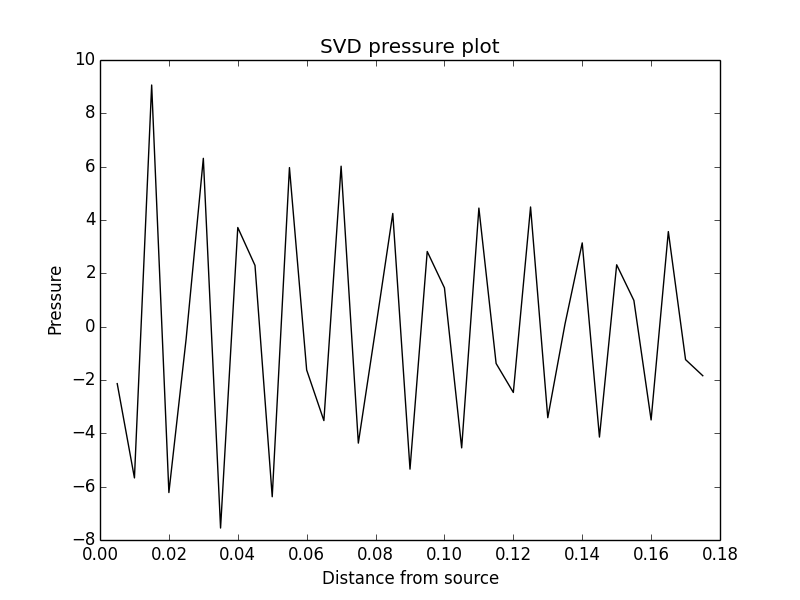
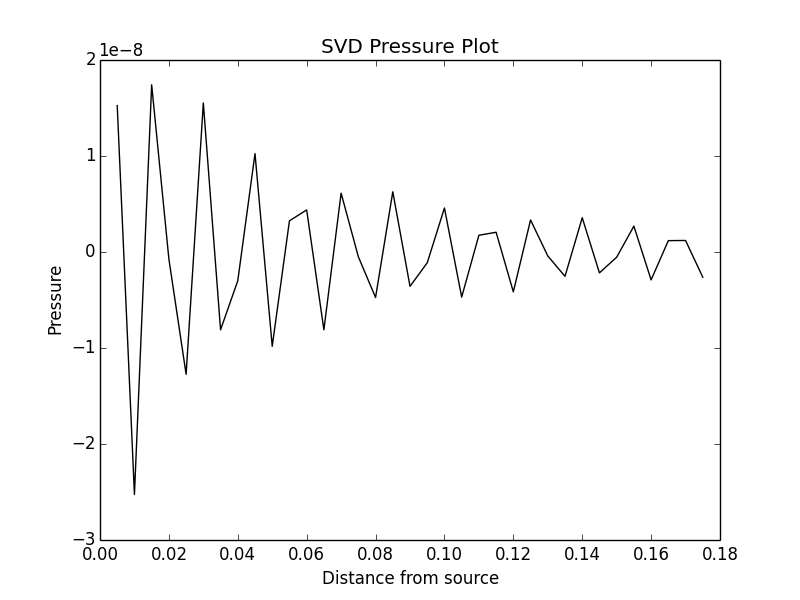
Need to check plane wave results

diff --git a/Simulations/Plane Wave Confirmation/reduced Plane Wave solve.py b/Simulations/Plane Wave Confirmation/reduced Plane Wave solve.py
@@ -6,13 +6,13 @@ leastSqPlane = __import__("Plane Wave Least Squares")
 
 #define constants
 NUM_PORTS = 11
-NUM_DETECTORS = 35
+NUM_DETECTORS = 20
 DETECTOR_MID = NUM_DETECTORS/2
-NUM_ROWS = 35
+NUM_ROWS = 100
 
 PORT_SPACING = 0.0011375
 DETECTOR_SPACING = 0.0005
-ROW_SPACING = 0.005
+ROW_SPACING = 0.0005
 DETECTOR_OFFSET = 0.1
 
 MIDPOINT = (NUM_PORTS-1)/2.0 * PORT_SPACING
@@ -36,14 +36,16 @@ class reducedLeastSquaresWave(leastSqPlane.leastSquaresWave):
 		self.getSVD(freq)
 		# print self.diffMatrix
 		print "result is: \n", self.leastSqResu
-		print "SVD result is [0]: \n", self.resultSVDResu[0]
+		# print "SVD result is [0]: \n", self.resultSVDResu[0]
+		# print "SVD is: ", self.SVD
 		# print "SVD result is [1]: \n", self.resultSVDResu[1]
 
-		tempDetector = self.fullConstDict[0].keys()[0]
+		# tempDetector = self.fullConstDict[0].keys()[0]
 		# print "detector vals are: ", self.fullConstDict[0][tempDetector]
 
-		# self.getfullConstDict(freq)
 		self.normalizeVals()
+		# self.getfullConstDict(freq)
+
 		self.calcPressure()
 
 		# print np.dot(self.diffMatrix,self.leastSqResu)
@@ -52,8 +54,16 @@ class reducedLeastSquaresWave(leastSqPlane.leastSquaresWave):
 		# print "storage array is: ", self.storArr
 		# print self.nullPressure[0]
 		# print self.svdPressure[0]
-		self.graphDecay(self.nullPressure, "Least Squares Pressure Plot")
-		self.graphDecay(self.svdPressure, "SVD Reduced Pressure Plot")
+
+		self.plotEverything()
+
+
+	def plotEverything(self):
+		# self.graphDecay(self.nullPressure, "Least Squares Pressure Plot")
+		# self.graphDecay(self.svdPressure, "SVD Pressure Plot")
+
+		# self.graphXDecay(self.svdPressure, "SVD Pressure")
+		self.graphXDecay(self.nullPressure, "Least Squares Pressures")
 
 	# def checkSolution(self):
 
@@ -87,22 +97,27 @@ class reducedLeastSquaresWave(leastSqPlane.leastSquaresWave):
 	def nullSpace(self, eps = 1.5e-10):
 		u, s, vh = np.linalg.svd(self.reducedMatrix)
 		self.null_space = np.compress(s <=eps, vh, axis = 0)
-		return self.null_space.T
+		# print "SVD is: ", s
+		# print "unitary matrix is: ", vh
+		return self.null_space.T, s
 
 	def getSVD(self, freq):
-		eps = 1.5e-15
-		while True:
-			self.resultSVDResu = self.nullSpace(eps).T
+		eps = 1.5e-9
+		counter = 0
+		while True: #counter != 1
+			self.resultSVDResu, self.SVD = self.nullSpace(eps)
+			self.resultSVDResu = self.resultSVDResu.T
 			if self.validateResu(freq):
 				break
 			eps *= 2 if self.resultSVDResu.shape[0] <= 1 else 1/1.5
 			print "epsilon is: ", eps
+			# counter += 1
 		print self.resultSVDResu.shape
 
 	def validateResu(self, freq):
-		if self.resultSVDResu.shape[0] != 2:
-			print self.resultSVDResu.shape[0]
-			return False
+		# if self.resultSVDResu.shape[0] != 2:
+			# print self.resultSVDResu.shape[0]
+			# return False
 		self.getfullConstDict(freq)
 		return True
 
@@ -124,6 +139,14 @@ class reducedLeastSquaresWave(leastSqPlane.leastSquaresWave):
 		plt.title(title)
 		plt.show()
 
+	def graphXDecay(self, pressureDict, title):
+		x = [(i+1) * DETECTOR_SPACING for i in range(NUM_DETECTORS)]
+		y = [pressureDict[99][detector][0].real for detector in pressureDict[99]]
+
+		print y
+		plt.plot(x, y, "k")
+		plt.title(title)
+		plt.show()
 
 
 if __name__ == "__main__":

diff --git a/Simulations/Plane Wave Confirmation/Plane Wave Least Squares.py b/Simulations/Plane Wave Confirmation/Plane Wave Least Squares.py
@@ -1,16 +1,17 @@
 import numpy as np
 import plotImShow as plot
+import matplotlib.pyplot as plt
 waveCalculation = __import__("Plane Wave LinAlg")
 
 
 #define constants
 NUM_PORTS = 11
-NUM_DETECTORS = 50
+NUM_DETECTORS = 100
 DETECTOR_MID = NUM_DETECTORS/2
 NUM_ROWS = 50
 
 PORT_SPACING = 0.0011375
-DETECTOR_SPACING = 0.0005
+DETECTOR_SPACING = 0.00005
 ROW_SPACING = 0.0005
 DETECTOR_OFFSET = 0.1
 
@@ -35,6 +36,7 @@ class leastSquaresWave(waveCalculation.runCalculation):
 		# print self.differences.keys()
 		# key = self.differences[0].keys()[0]
 		self.getMaxDiff()
+		self.graphXDecay()
 
 	def getMaxDiff(self):
 		self.maxDiff = complex(0,0)
@@ -49,7 +51,22 @@ class leastSquaresWave(waveCalculation.runCalculation):
 		print "midpoint is: ", self.result[(NUM_PORTS)/2]
 
 	def constructRHS(self):
-		self.rhs = [-self.diffMatrix[i][(NUM_PORTS)/2] for i in range(len(self.diffMatrix))]
+		self.rhs = [self.diffMatrix[i][(NUM_PORTS)/2] for i in range(len(self.diffMatrix))]
+
+# def calculatePressure(self):
+# 		self.pressureDict = {}
+# 		for key in self.fullConstDict:
+# 			self.pressureDict[key] = {detector: (np.dot(self.fullConstDict[key][detector], self.result.T), detector.returnLoc()) for detector in self.fullConstDict[key]}
+
+
+	def graphXDecay(self):
+		x = [(i+1) * DETECTOR_SPACING for i in range(NUM_DETECTORS)]
+		y = [self.pressureDict[20][detector][0].real for detector in self.pressureDict[20]]
+
+		print y
+		plt.plot(x, y, "k")
+		plt.show()
+
 
 
 
@@ -58,6 +75,7 @@ if __name__ == "__main__":
 	waveCalculation.spacingUpdate(dspacing = DETECTOR_SPACING, dOffset = DETECTOR_OFFSET)
 	planarWave = leastSquaresWave()
 	pressures = planarWave.returnPressure()
-	plot.imPlotting(pressures)
+	planarWave.graphXDecay()
+	# plot.imPlotting(pressures)
 
 
